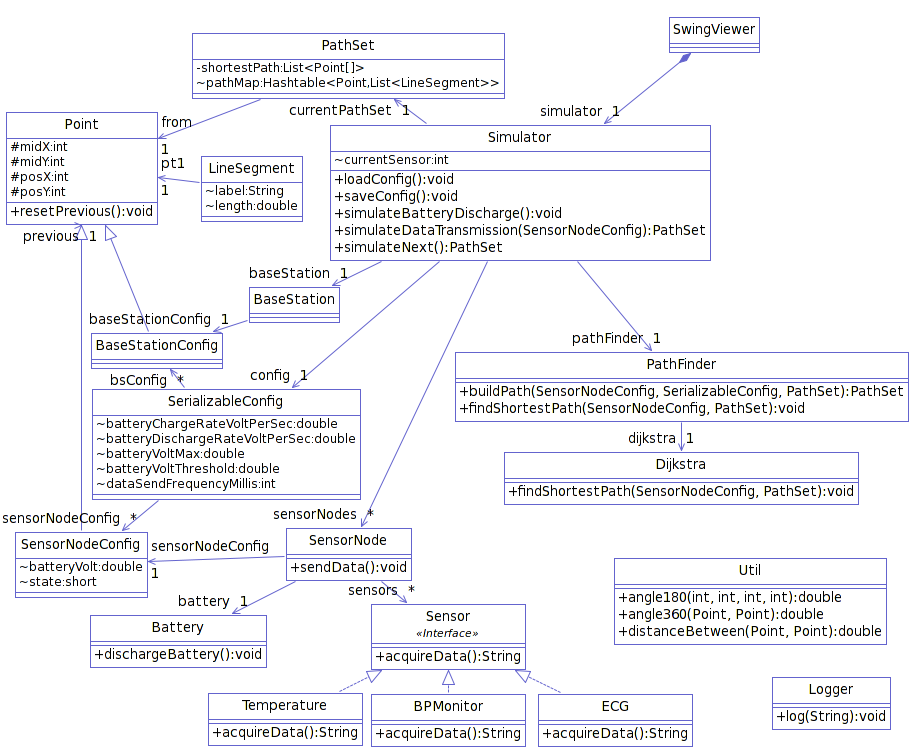
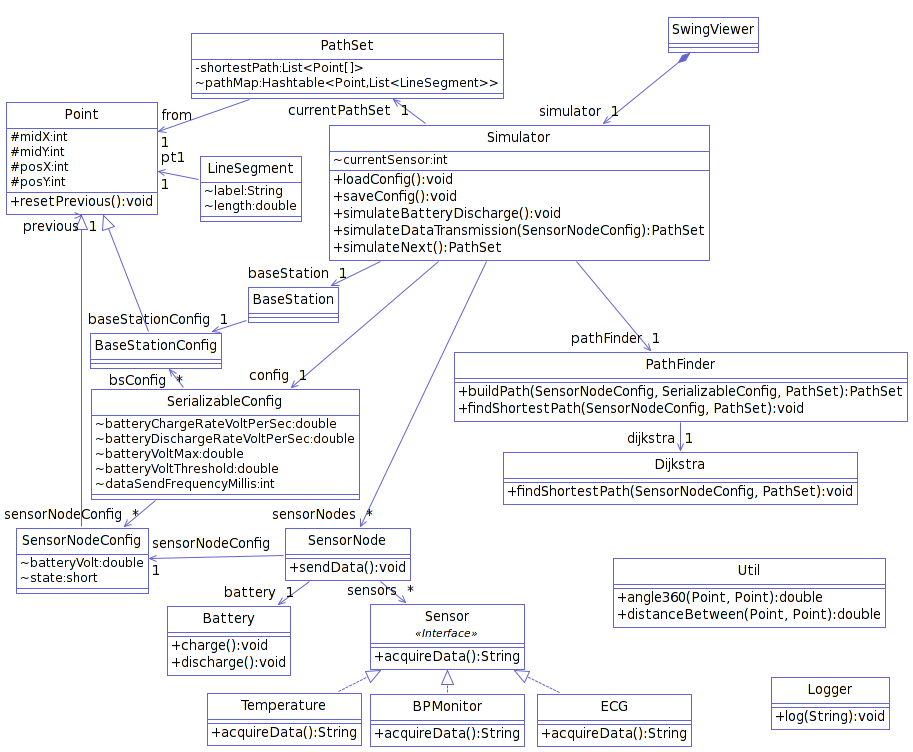
fix interface

diff --git a/src/wban/simulate/view/SwingViewer.java b/src/wban/simulate/view/SwingViewer.java
@@ -128,7 +128,7 @@ public class SwingViewer extends JPanel implements Runnable, ActionListener, Mou
         this.add(popMenu);
         this.addMouseListener(new MouseAdapter() {
             public void mousePressed(MouseEvent evt) {
-                if (evt.isPopupTrigger()) {
+                if (true) { //evt.isPopupTrigger()) {
                     popMenu.show(evt.getComponent(), evt.getX(), evt.getY());
                     currentX = evt.getX();
                     currentY = evt.getY();
@@ -374,7 +374,7 @@ public class SwingViewer extends JPanel implements Runnable, ActionListener, Mou
             currentIcon = (JLabel) e.getComponent();
             currentIcon.setBorder(lineBorder);
             Icon img = currentIcon.getIcon();
-            if (e.isPopupTrigger() && img != null && !img.equals(baseStationImg)) {
+            if (/*e.isPopupTrigger() && */img != null && !img.equals(baseStationImg)) {
                 popMenu.setVisible(true);
                 popMenu.show(e.getComponent(), e.getX(), e.getY());
             }

diff --git a/src/wban/simulate/util/Util.java b/src/wban/simulate/util/Util.java
@@ -16,18 +16,11 @@ public class Util {
         return angle180(pt1.getX(), pt1.getY(), pt2.getX(), pt2.getY());
     }
 
-    public static double angle180(int x1, int y1, int x2, int y2) {
+    private static double angle180(int x1, int y1, int x2, int y2) {
         int dy = y2 - y1;
         int dx = x2 - x1;
         double theta = Math.atan2(dy, dx); // range (-PI, PI]
         theta *= 180 / Math.PI; // rads to degs, range (-180, 180]
-        return theta;
-    }
-
-    public static double angle360(int x1, int y1, int x2, int y2) {
-        double theta = angle180(x1, y1, x2, y2); // range (-180, 180]
-        if (theta < 0)
-            theta = 360 + theta; // range [0, 360)
         return theta;
     }
 

diff --git a/src/wban/simulate/Simulator.java b/src/wban/simulate/Simulator.java
@@ -10,9 +10,8 @@ import java.io.ObjectOutputStream;
 import java.util.LinkedList;
 import java.util.List;
 
-import wban.simulate.config.SerializableConfig;
 import wban.simulate.config.SensorNodeConfig;
-import wban.simulate.path.Dijkstra;
+import wban.simulate.config.SerializableConfig;
 import wban.simulate.path.PathFinder;
 import wban.simulate.path.PathSet;
 

diff --git a/src/wban/simulate/Battery.java b/src/wban/simulate/Battery.java
@@ -2,6 +2,10 @@ package wban.simulate;
 
 public class Battery {
 
-    public void dischargeBattery() {
+    public void charge() {
     }
+
+    public void discharge() {
+    }
+
 }
